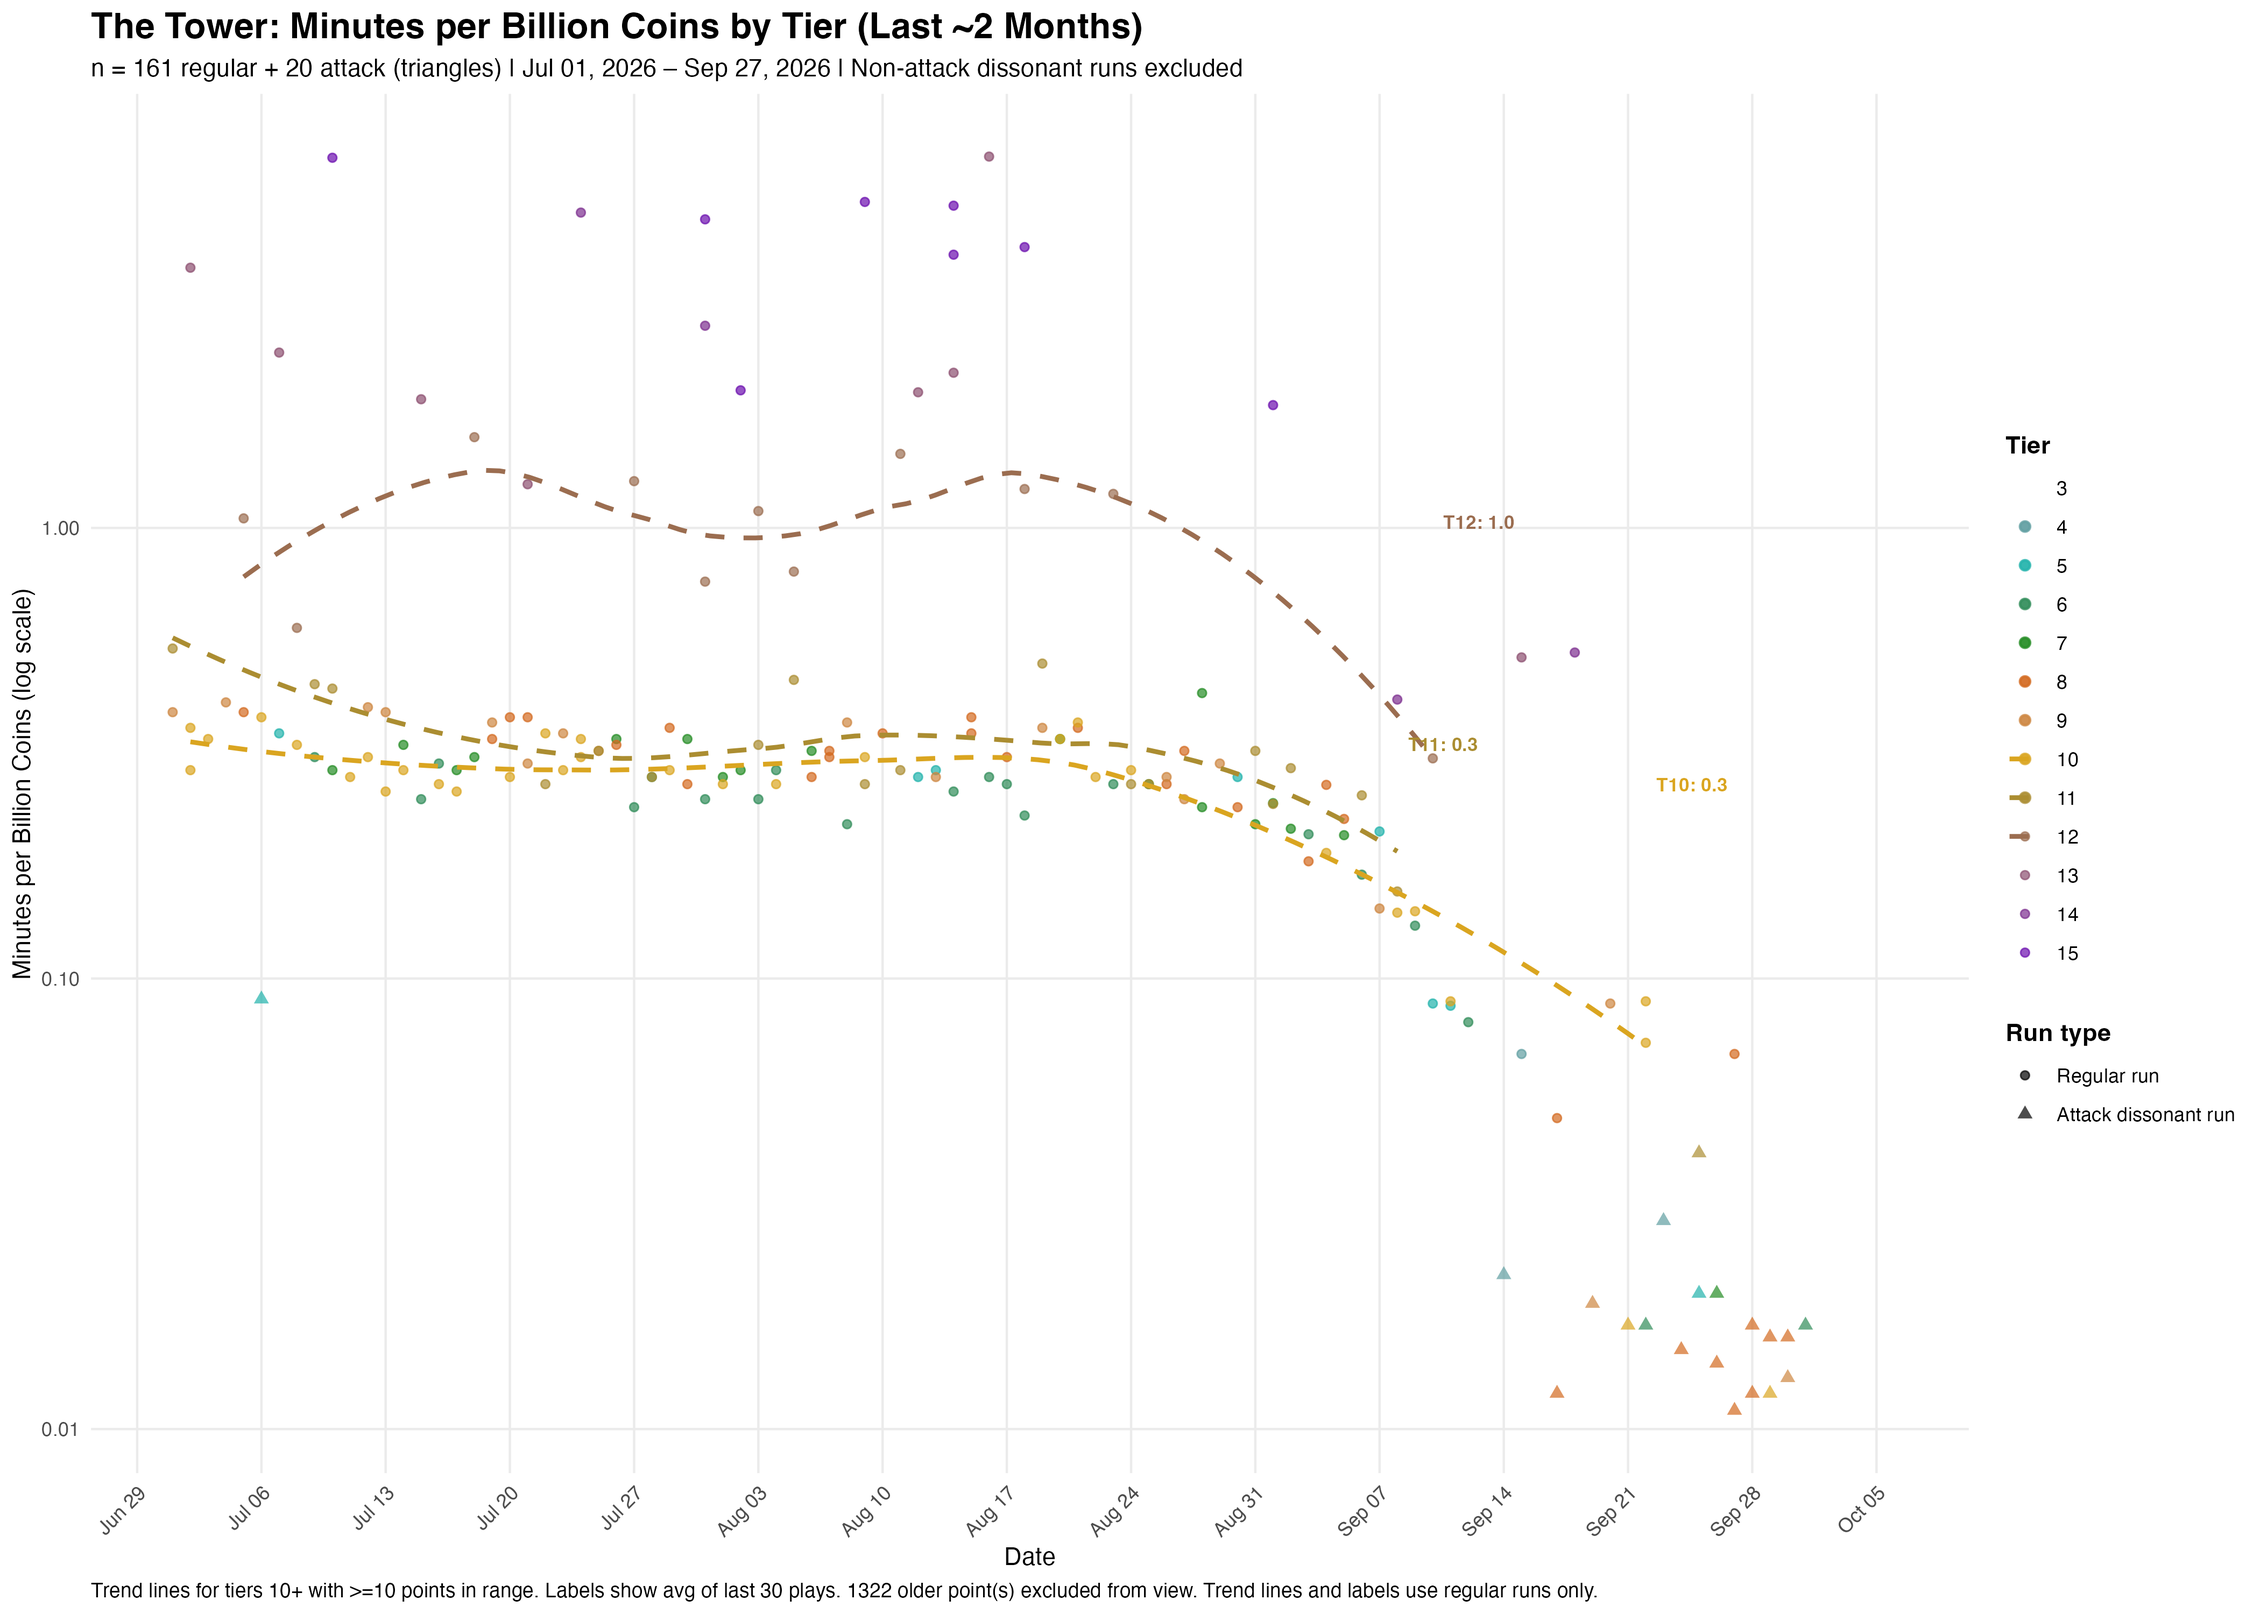
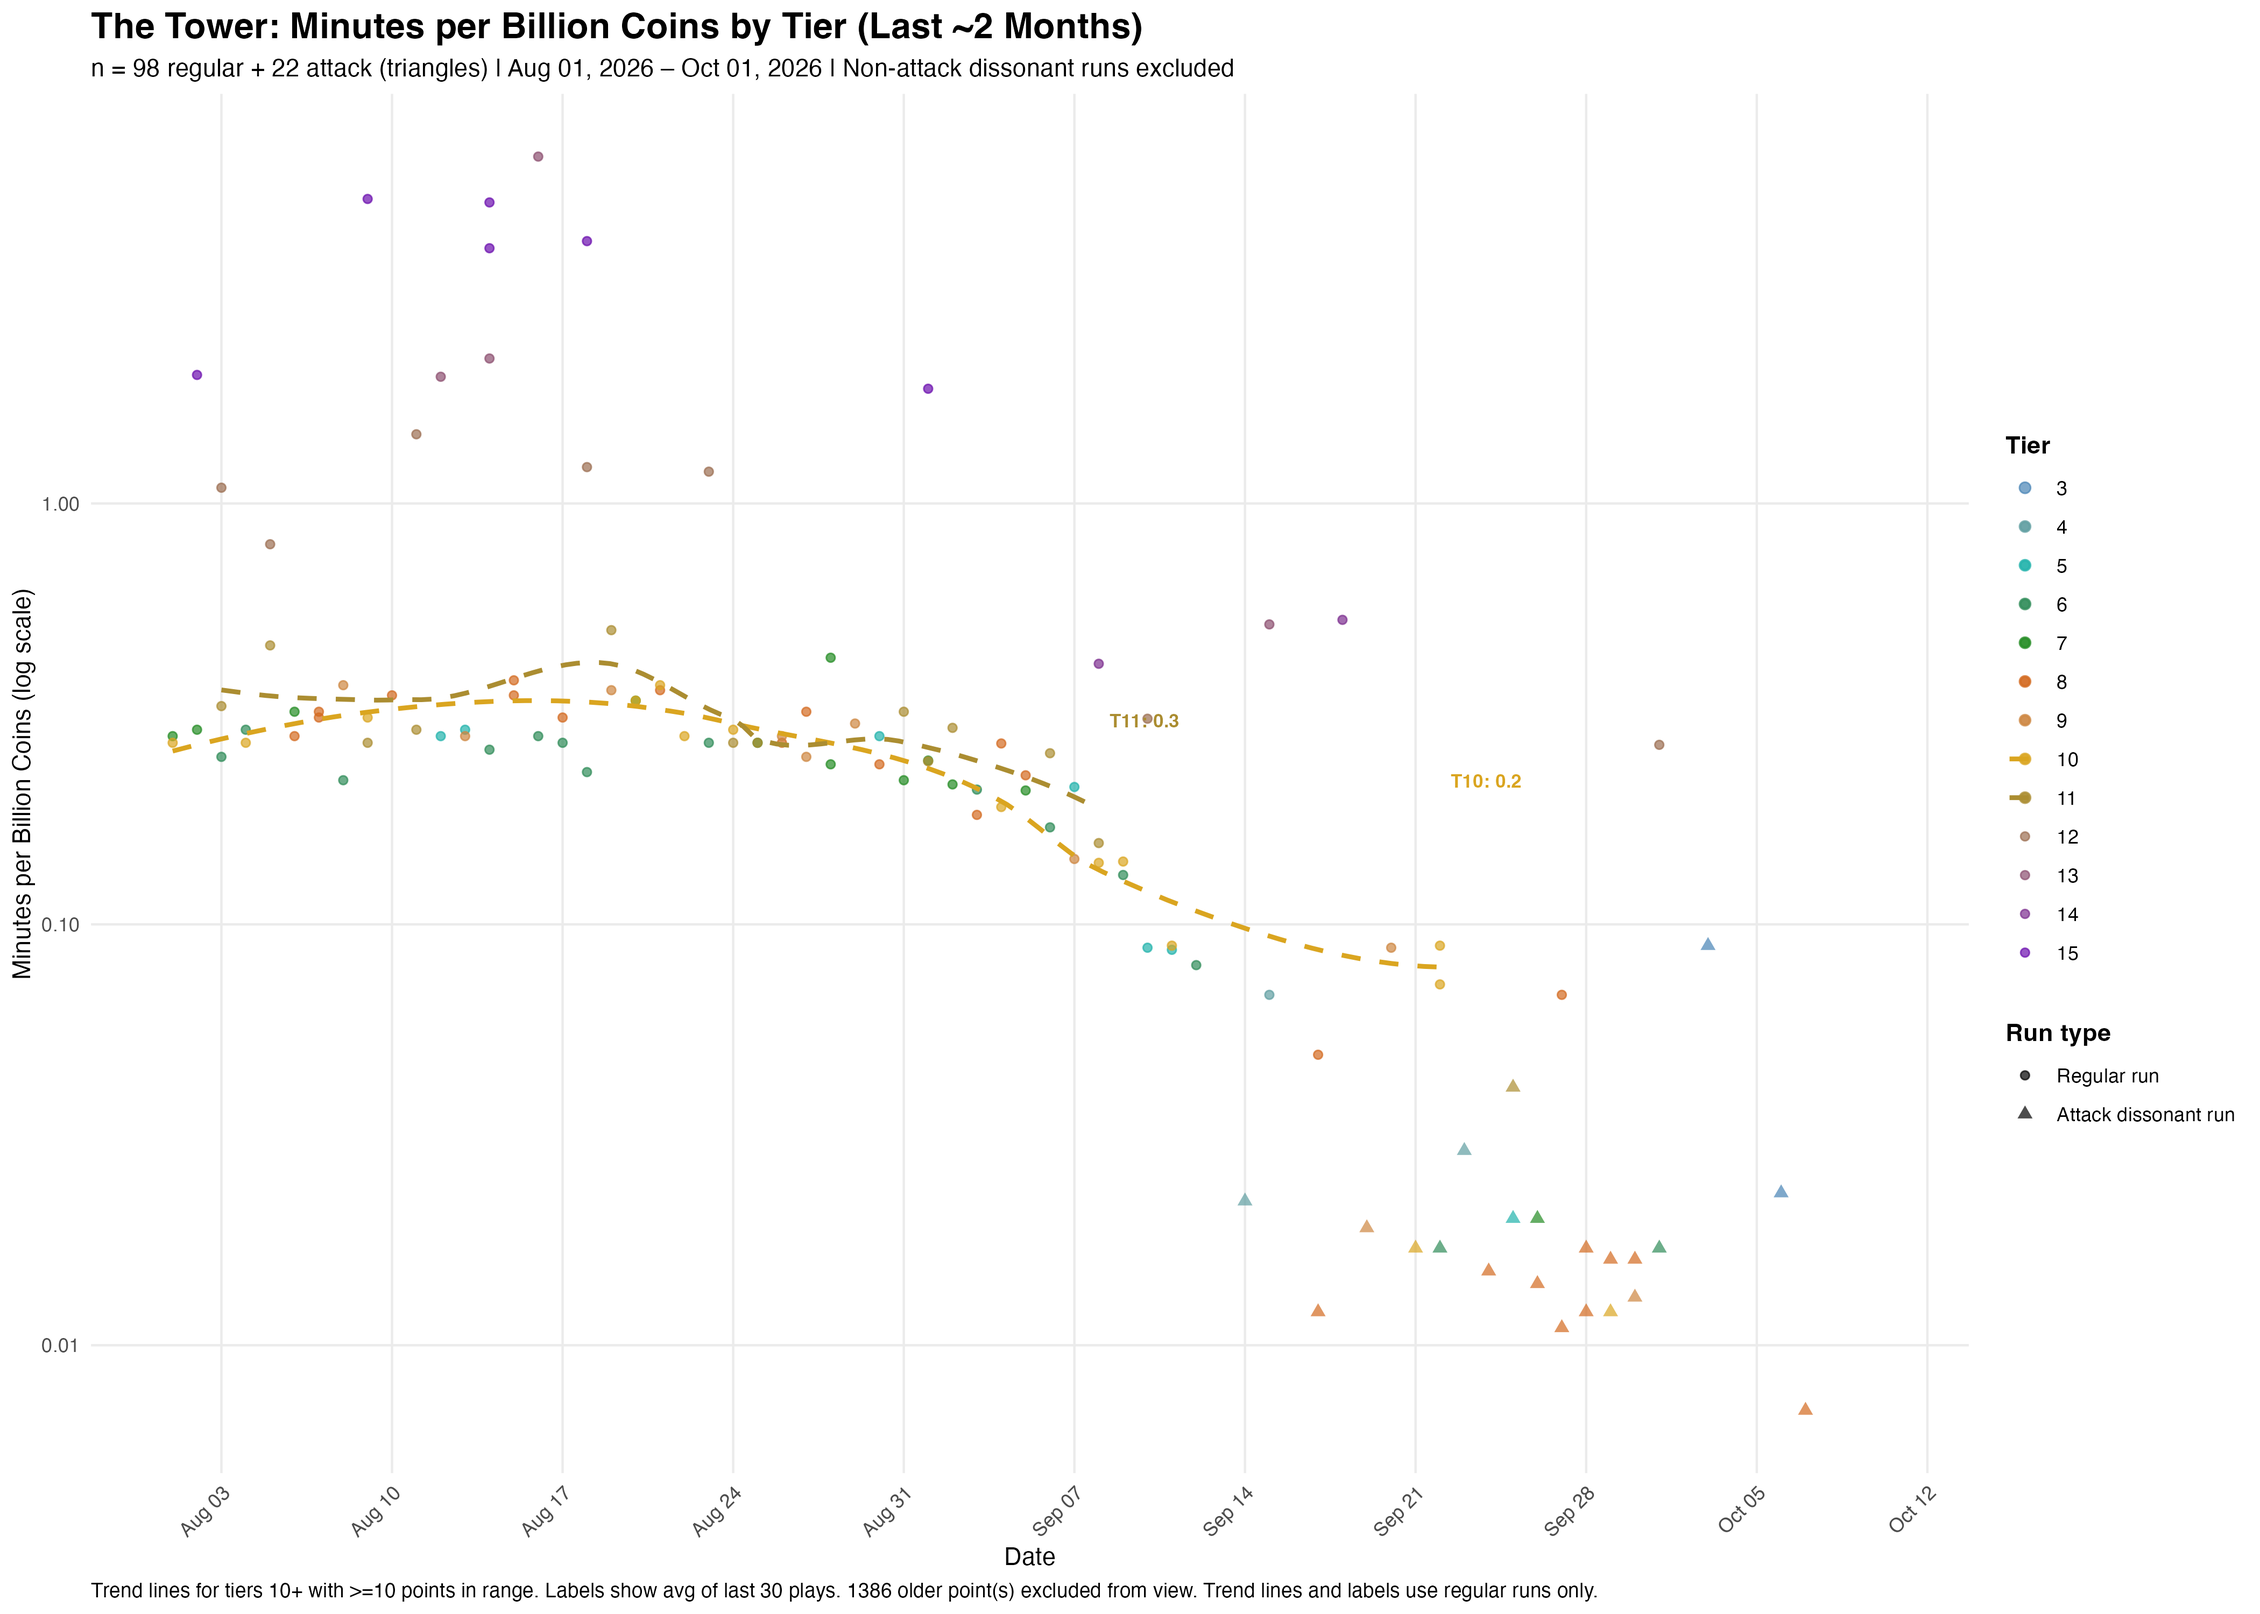
🚲 [games] The Tower: update data and graphs (#549)

diff --git a/individuals/chicks/games/the-tower/README.md b/individuals/chicks/games/the-tower/README.md
@@ -23,23 +23,23 @@ this repo.
 
 <!-- Auto-generated by analyze-playlog.R — do not edit between these markers -->
 
-### Recent Statistics (May 2026 – Sep 2026)
+### Recent Statistics (Jun 2026 – Oct 2026)
 
 | Tier | Games | Total Coins (B) | Avg Duration | Max Duration | Avg Coins (B) | Max Coins (B) | Avg Min/B | Avg Coins/Hr |
 | ----- | ------: | --------------: | -----------: | -----------: | --------------: | --------------: | ----------: | -------------: |
-| 15 | 15 | 63.0 | 0h18m | 0h26m | 4.2 | 13.1 | 5.48 | 13.3 |
-| 14 | 12 | 330.5 | 0h47m | 0h57m | 27.5 | 128.1 | 4.50 | 32.4 |
-| 13 | 33 | 1,463.6 | 1h57m | 2h48m | 44.4 | 268.1 | 3.59 | 21.3 |
-| 12 | 24 | 5,671.0 | 4h35m | 6h11m | 236.3 | 891.9 | 1.60 | 50.2 |
-| 11 | 28 | 38,661.7 | 8h08m | 10h41m | 1380.8 | 2939.8 | 0.39 | 170.9 |
-| 10 | 96 | 175,303.3 | 9h52m | 10h17m | 1826.1 | 7800.0 | 0.37 | 185.9 |
-| 9 | 28 | 56,947.1 | 10h57m | 11h47m | 2033.8 | 7100.0 | 0.38 | 186.8 |
-| 8 | 29 | 82,730.4 | 11h47m | 12h51m | 2852.8 | 13350.0 | 0.32 | 244.9 |
+| 15 | 12 | 55.8 | 0h18m | 0h26m | 4.6 | 13.1 | 4.88 | 14.7 |
+| 14 | 7 | 293.6 | 0h50m | 0h57m | 41.9 | 128.1 | 2.94 | 48.3 |
+| 13 | 24 | 1,187.3 | 1h59m | 2h48m | 49.5 | 268.1 | 3.51 | 23.2 |
+| 12 | 16 | 5,719.4 | 4h55m | 6h11m | 357.5 | 1122.2 | 1.11 | 73.1 |
+| 11 | 23 | 34,114.4 | 8h04m | 8h45m | 1483.2 | 2939.8 | 0.36 | 184.1 |
+| 10 | 58 | 126,705.0 | 9h57m | 10h17m | 2184.6 | 7800.0 | 0.31 | 221.6 |
+| 9 | 23 | 51,148.3 | 11h01m | 11h47m | 2223.8 | 7100.0 | 0.34 | 203.7 |
+| 8 | 27 | 80,262.9 | 11h49m | 12h51m | 2972.7 | 13350.0 | 0.30 | 255.0 |
 | 7 | 18 | 48,903.0 | 12h54m | 13h30m | 2716.8 | 3610.0 | 0.29 | 211.0 |
 | 6 | 19 | 78,400.0 | 15h04m | 15h39m | 4126.3 | 10590.0 | 0.24 | 277.6 |
 | 5 | 7 | 38,297.8 | 15h56m | 17h16m | 5471.1 | 10480.0 | 0.23 | 351.9 |
 | 4 | 1 | 14,480.0 | 16h29m | 16h29m | 14480.0 | 14480.0 | 0.07 | 878.8 |
-| **All** | **310** | **541,251.6** | **8h34m** | **17h16m** | **1746.0** | **14480.0** | **1.20** | **160.9** |
+| **All** | **235** | **479,567.4** | **9h01m** | **17h16m** | **2040.7** | **14480.0** | **1.00** | **184.3** |
 
 <!-- RECENT-STATS-END -->
 
@@ -47,13 +47,13 @@ this repo.
 
 <!-- Auto-generated by analyze-playlog.R — do not edit between these markers -->
 
-### Recent Tournament Statistics (Apr 2026 – Sep 2026)
+### Recent Tournament Statistics (Apr 2026 – Oct 2026)
 
 | Tier | Games | Total Coins (B) | Avg Duration | Max Duration | Avg Coins (B) | Max Coins (B) | Avg Wave | Max Wave |
 | ----- | ------: | --------------: | -----------: | -----------: | --------------: | --------------: | ------: | ------: |
 | T-12 | 7 | 93.0 | 0h31m | 0h54m | 13.3 | 44.2 | 576 | 703 |
-| T-8 | 64 | 2,304.7 | 2h31m | 2h59m | 36.0 | 130.6 | 1671 | 2092 |
-| **All** | **71** | **2,397.7** | **2h19m** | **2h59m** | **33.8** | **130.6** | **1563** | **2092** |
+| T-8 | 66 | 2,665.8 | 2h31m | 2h59m | 40.4 | 259.9 | 1678 | 2092 |
+| **All** | **73** | **2,758.9** | **2h20m** | **2h59m** | **37.8** | **259.9** | **1573** | **2092** |
 
 <!-- RECENT-TOURNAMENT-STATS-END -->
 
@@ -101,56 +101,60 @@ has been since that run was done.
 
 <!-- Auto-generated by analyze-playlog.R — do not edit between these markers -->
 
-### Recent Dissonant Run Statistics (as of 2026-10-01)
+### Recent Dissonant Run Statistics (as of 2026-10-07)
 
 Latest dissonant run per tier and category. `Pct of Max` = Finish Wave / Max Wave for that tier.
 
 | Tier | Category | Last Run | Finish Wave | Max Wave | Pct of Max | Days Since |
 | ----- | -------- | -------- | ----------: | -------: | ---------: | ---------: |
-| 14 | Attack | 2026-04-20 | 104 | 493 | 21.1% | 164 |
-| 14 | Defense | 2026-04-13 | 34 | 493 | 6.9% | 171 |
-| 14 | Utility | 2026-04-20 | 226 | 493 | 45.8% | 164 |
-| 14 | Ultimate Weapons | 2026-04-13 | 298 | 493 | 60.4% | 171 |
-| 13 | Attack | 2026-04-20 | 315 | 1460 | 21.6% | 164 |
-| 13 | Defense | 2026-04-11 | 153 | 1460 | 10.5% | 173 |
-| 13 | Utility | 2026-04-10 | 611 | 1460 | 41.8% | 174 |
-| 13 | Ultimate Weapons | 2026-04-10 | 581 | 1460 | 39.8% | 174 |
-| 12 | Attack | 2026-05-18 | 798 | 3118 | 25.6% | 136 |
-| 12 | Defense | 2026-05-18 | 720 | 3118 | 23.1% | 136 |
-| 12 | Utility | 2026-05-18 | 1828 | 3118 | 58.6% | 136 |
-| 12 | Ultimate Weapons | 2026-05-18 | 1387 | 3118 | 44.5% | 136 |
-| 11 | Attack | 2026-09-25 | 4548 | 6187 | 73.5% | 6 |
-| 11 | Defense | 2026-05-18 | 1926 | 5321 | 36.2% | 136 |
-| 11 | Utility | 2026-05-10 | 3475 | 5185 | 67.0% | 144 |
-| 11 | Ultimate Weapons | 2026-07-01 | 3709 | 5392 | 68.8% | 92 |
-| 10 | Attack | 2026-09-29 | 6879 | 7569 | 90.9% | 2 |
-| 10 | Defense | 2026-09-21 | 4172 | 7569 | 55.1% | 10 |
-| 10 | Utility | 2026-09-20 | 4855 | 7569 | 64.1% | 11 |
-| 10 | Ultimate Weapons | 2026-09-21 | 5464 | 7569 | 72.2% | 10 |
-| 9 | Attack | 2026-09-30 | 7736 | 8160 | 94.8% | 1 |
-| 9 | Defense | 2026-09-19 | 4414 | 8160 | 54.1% | 12 |
-| 9 | Utility | 2026-09-18 | 5200 | 8160 | 63.7% | 13 |
-| 9 | Ultimate Weapons | 2026-09-18 | 6056 | 8160 | 74.2% | 13 |
-| 8 | Attack | 2026-09-30 | 9099 | 9125 | 99.7% | 1 |
-| 8 | Defense | 2026-09-16 | 4804 | 8788 | 54.7% | 15 |
-| 8 | Utility | 2026-09-15 | 5320 | 8788 | 60.5% | 16 |
-| 8 | Ultimate Weapons | 2026-09-16 | 6643 | 8788 | 75.6% | 15 |
-| 7 | Attack | 2026-09-26 | 9419 | 9450 | 99.7% | 5 |
-| 7 | Defense | 2026-06-14 | 3309 | 6096 | 54.3% | 109 |
-| 7 | Utility | 2026-06-13 | 5878 | 6096 | 96.4% | 110 |
-| 7 | Ultimate Weapons | 2026-06-13 | 6087 | 6096 | 99.9% | 110 |
-| 6 | Attack | 2026-10-01 | 11723 | 11246 | 104.2% | 0 |
-| 6 | Defense | 2026-06-16 | 4063 | 7173 | 56.6% | 107 |
-| 6 | Utility | 2026-06-15 | 5605 | 6344 | 88.4% | 108 |
-| 6 | Ultimate Weapons | 2026-06-16 | 7173 | 6344 | 113.1% | 107 |
-| 5 | Attack | 2026-09-25 | 12077 | 11955 | 101.0% | 6 |
-| 5 | Defense | 2026-07-05 | 4335 | 7862 | 55.1% | 88 |
-| 5 | Utility | 2026-07-03 | 6064 | 6378 | 95.1% | 90 |
-| 5 | Ultimate Weapons | 2026-07-04 | 7862 | 6378 | 123.3% | 89 |
-| 4 | Attack | 2026-09-23 | 13035 | 13010 | 100.2% | 8 |
-| 4 | Defense | 2026-09-13 | 4644 | 10003 | 46.4% | 18 |
-| 4 | Utility | 2026-09-12 | 6890 | 6459 | 106.7% | 19 |
-| 4 | Ultimate Weapons | 2026-09-13 | 10003 | 6890 | 145.2% | 18 |
-| **All** | **96 runs** | **2026-10-01** | **13035** | — | **66.2%** | **0** |
+| 14 | Attack | 2026-04-20 | 104 | 493 | 21.1% | 170 |
+| 14 | Defense | 2026-04-13 | 34 | 493 | 6.9% | 177 |
+| 14 | Utility | 2026-04-20 | 226 | 493 | 45.8% | 170 |
+| 14 | Ultimate Weapons | 2026-04-13 | 298 | 493 | 60.4% | 177 |
+| 13 | Attack | 2026-04-20 | 315 | 1460 | 21.6% | 170 |
+| 13 | Defense | 2026-04-11 | 153 | 1460 | 10.5% | 179 |
+| 13 | Utility | 2026-04-10 | 611 | 1460 | 41.8% | 180 |
+| 13 | Ultimate Weapons | 2026-04-10 | 581 | 1460 | 39.8% | 180 |
+| 12 | Attack | 2026-05-18 | 798 | 3118 | 25.6% | 142 |
+| 12 | Defense | 2026-05-18 | 720 | 3118 | 23.1% | 142 |
+| 12 | Utility | 2026-05-18 | 1828 | 3118 | 58.6% | 142 |
+| 12 | Ultimate Weapons | 2026-05-18 | 1387 | 3118 | 44.5% | 142 |
+| 11 | Attack | 2026-09-25 | 4548 | 6187 | 73.5% | 12 |
+| 11 | Defense | 2026-10-02 | 3415 | 6187 | 55.2% | 5 |
+| 11 | Utility | 2026-05-10 | 3475 | 5185 | 67.0% | 150 |
+| 11 | Ultimate Weapons | 2026-10-01 | 4421 | 6187 | 71.5% | 6 |
+| 10 | Attack | 2026-09-29 | 6879 | 7569 | 90.9% | 8 |
+| 10 | Defense | 2026-09-21 | 4172 | 7569 | 55.1% | 16 |
+| 10 | Utility | 2026-09-20 | 4855 | 7569 | 64.1% | 17 |
+| 10 | Ultimate Weapons | 2026-09-21 | 5464 | 7569 | 72.2% | 16 |
+| 9 | Attack | 2026-09-30 | 7736 | 8160 | 94.8% | 7 |
+| 9 | Defense | 2026-09-19 | 4414 | 8160 | 54.1% | 18 |
+| 9 | Utility | 2026-09-18 | 5200 | 8160 | 63.7% | 19 |
+| 9 | Ultimate Weapons | 2026-09-18 | 6056 | 8160 | 74.2% | 19 |
+| 8 | Attack | 2026-10-07 | 9097 | 9125 | 99.7% | 0 |
+| 8 | Defense | 2026-09-16 | 4804 | 8788 | 54.7% | 21 |
+| 8 | Utility | 2026-09-15 | 5320 | 8788 | 60.5% | 22 |
+| 8 | Ultimate Weapons | 2026-09-16 | 6643 | 8788 | 75.6% | 21 |
+| 7 | Attack | 2026-09-26 | 9419 | 9450 | 99.7% | 11 |
+| 7 | Defense | 2026-10-02 | 5184 | 9450 | 54.9% | 5 |
+| 7 | Utility | 2026-06-13 | 5878 | 6096 | 96.4% | 116 |
+| 7 | Ultimate Weapons | 2026-06-13 | 6087 | 6096 | 99.9% | 116 |
+| 6 | Attack | 2026-10-01 | 11723 | 11246 | 104.2% | 6 |
+| 6 | Defense | 2026-10-02 | 4814 | 11723 | 41.1% | 5 |
+| 6 | Utility | 2026-06-15 | 5605 | 6344 | 88.4% | 114 |
+| 6 | Ultimate Weapons | 2026-06-16 | 7173 | 6344 | 113.1% | 113 |
+| 5 | Attack | 2026-09-25 | 12077 | 11955 | 101.0% | 12 |
+| 5 | Defense | 2026-07-05 | 4335 | 7862 | 55.1% | 94 |
+| 5 | Utility | 2026-07-03 | 6064 | 6378 | 95.1% | 96 |
+| 5 | Ultimate Weapons | 2026-07-04 | 7862 | 6378 | 123.3% | 95 |
+| 4 | Attack | 2026-09-23 | 13035 | 13010 | 100.2% | 14 |
+| 4 | Defense | 2026-09-13 | 4644 | 10003 | 46.4% | 24 |
+| 4 | Utility | 2026-09-12 | 6890 | 6459 | 106.7% | 25 |
+| 4 | Ultimate Weapons | 2026-09-13 | 10003 | 6890 | 145.2% | 24 |
+| 3 | Attack | 2026-10-06 | 14506 | 13017 | 111.4% | 1 |
+| 3 | Defense | 2026-10-04 | 5489 | 13017 | 42.2% | 3 |
+| 3 | Utility | 2026-10-04 | 8433 | 13017 | 64.8% | 3 |
+| 3 | Ultimate Weapons | 2026-10-05 | 12189 | 13017 | 93.6% | 2 |
+| **All** | **106 runs** | **2026-10-07** | **14506** | — | **67.6%** | **0** |
 
 <!-- RECENT-DISSONANT-STATS-END -->
